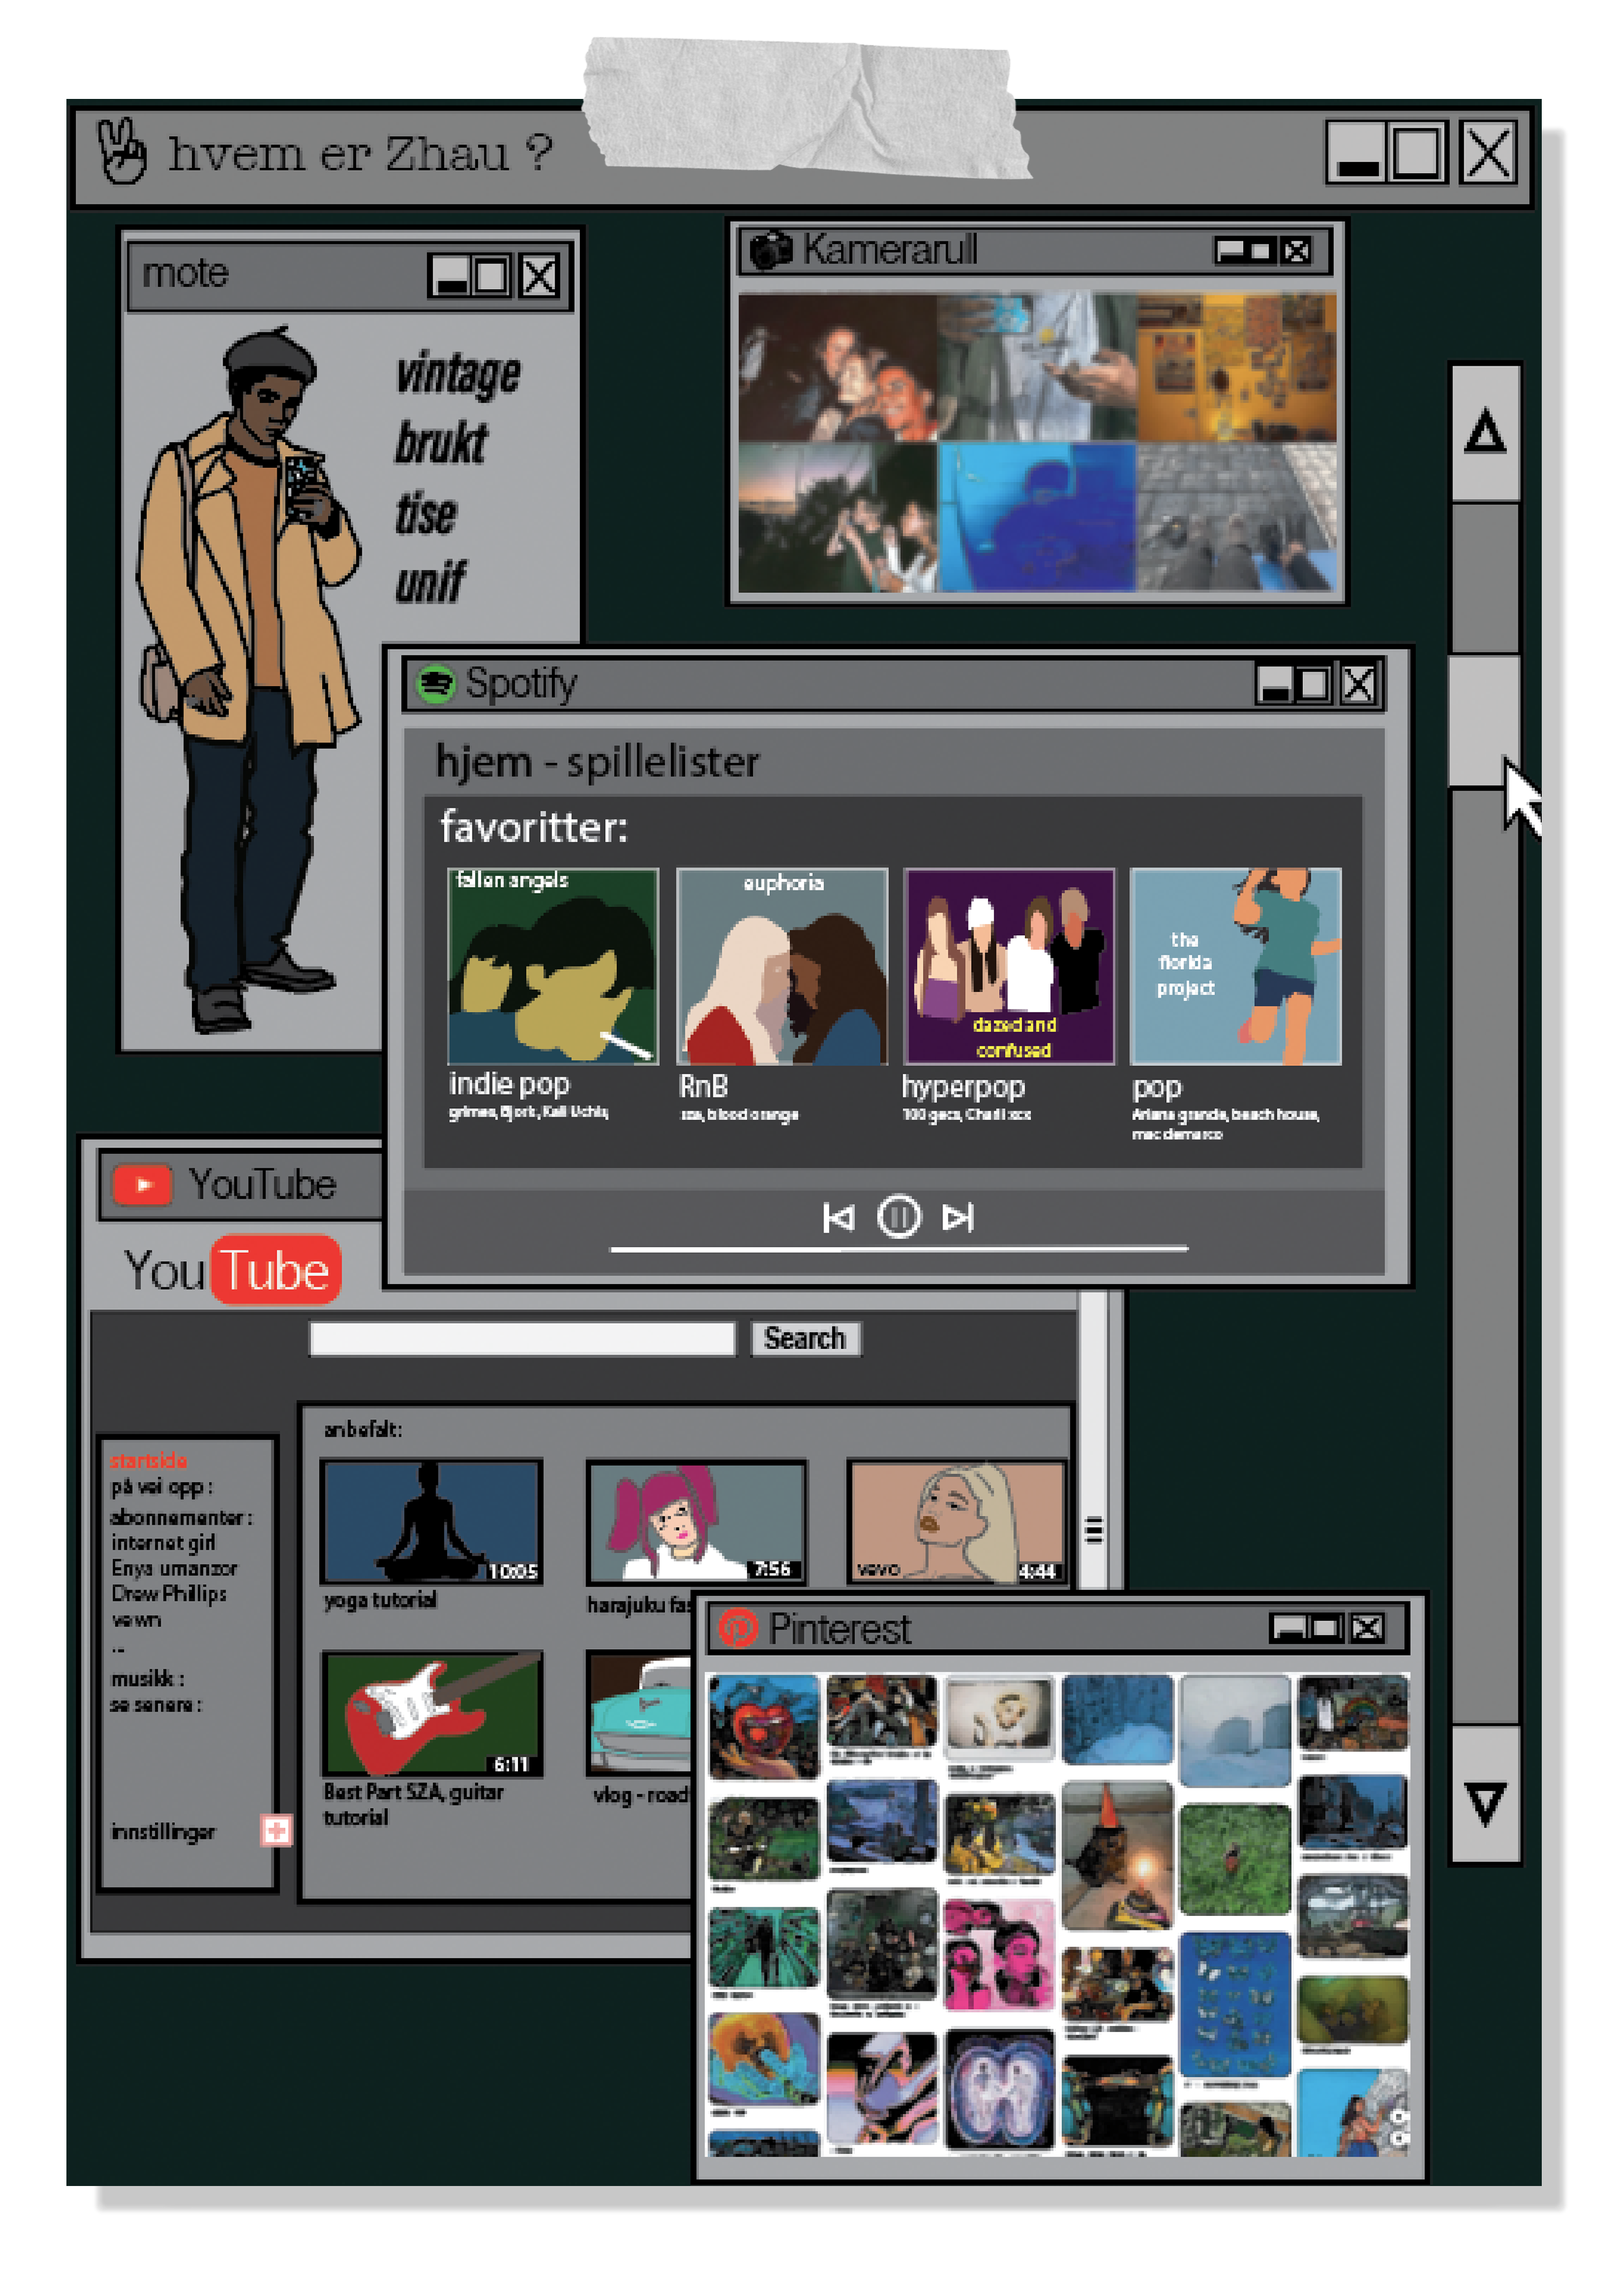
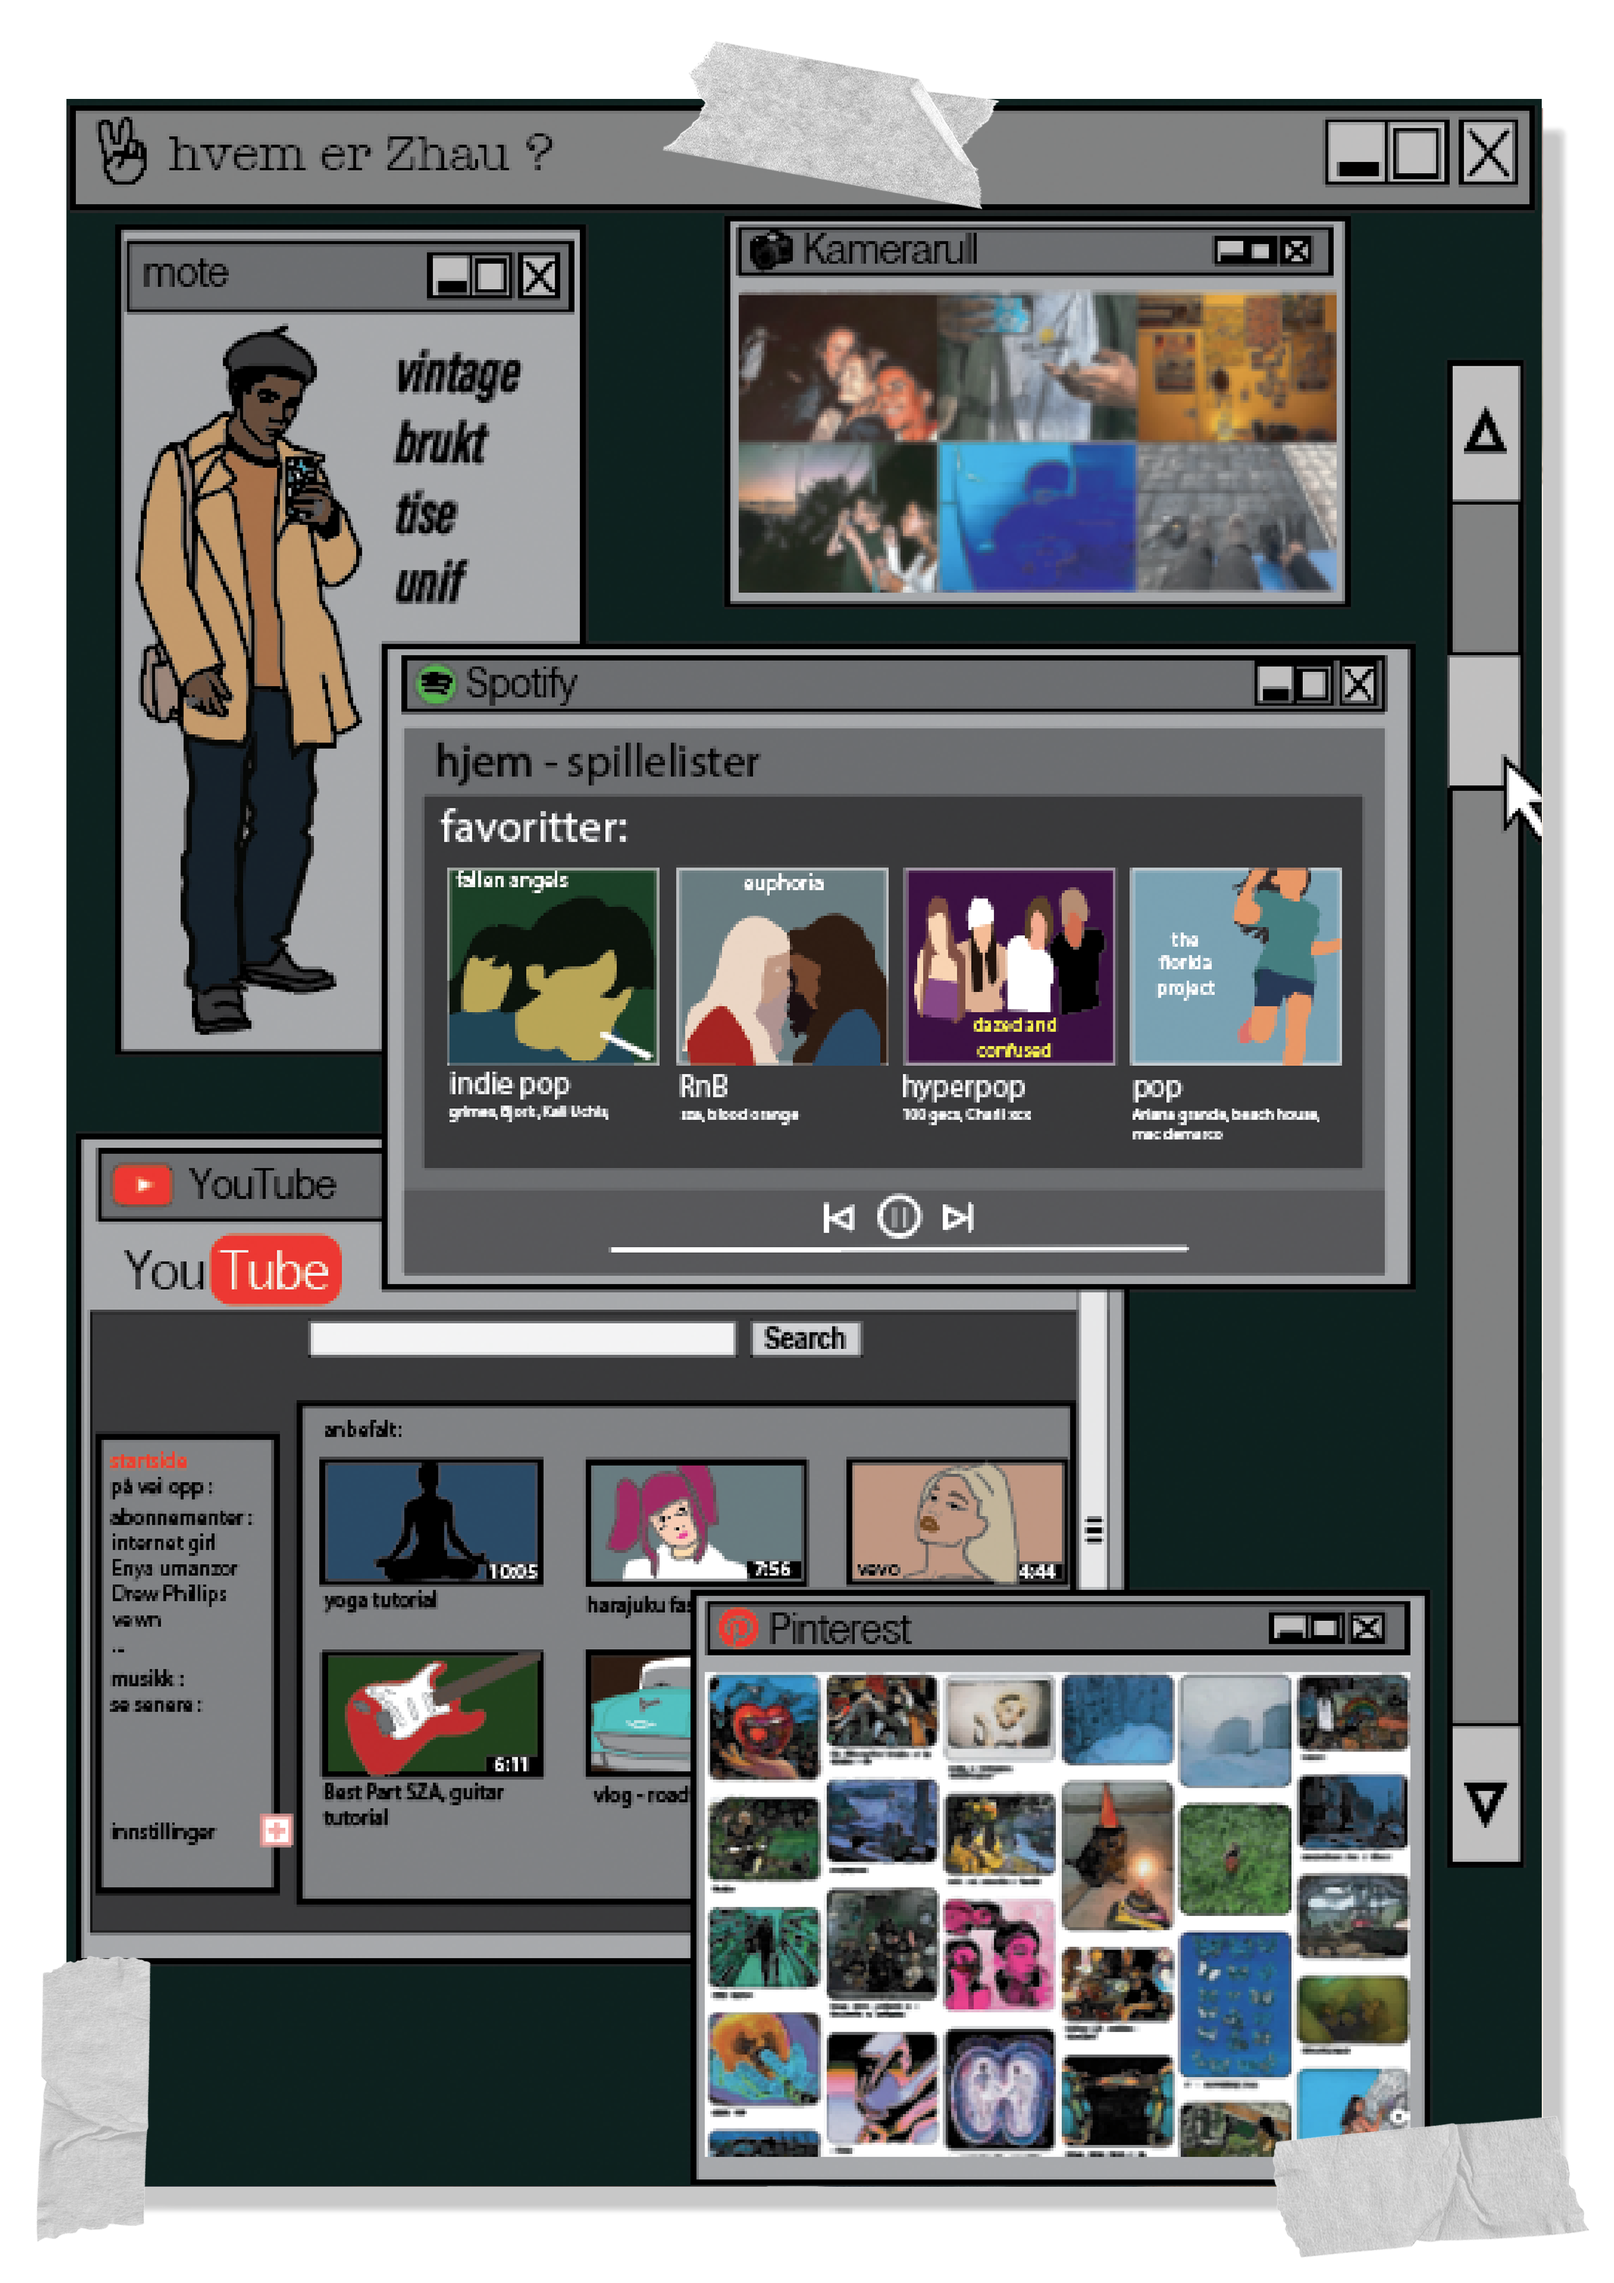
layout change

Changed region(s): [[0.3415, 0.0, 0.652, 0.0932], [0.7762, 0.9011, 0.9935, 0.9943], [0.0, 0.8389, 0.0931, 0.9943]]

diff --git a/index.html b/index.html
@@ -34,13 +34,17 @@ TODO :
 
 <div class="divider"></div>
 
+ <div class="project-text figma-text">
+        <p>
+            <p class="project-header"> Grafisk Design postere fra KDA </p>
+
+
 <!-- APP DESIGN 1 VAFF -->
 <div class="project-text figma-text">
-    <h2 class="project-title">DESIGN INTERNSHIP HOS MARKETER</h2>
+    <h2 class="project-header">DESIGN INTERNSHIP HOS MARKETER</h2>
     <p class="project-tagline">Figma - Capcut - AI bildegenerering - Claude Cowork for effektivisering</p>
 
-    <div class="project-content">
-        <div class="project-text figma-text">
+    
             <p class="project-header"> Designarbeidet: </p>
             
             <p>
